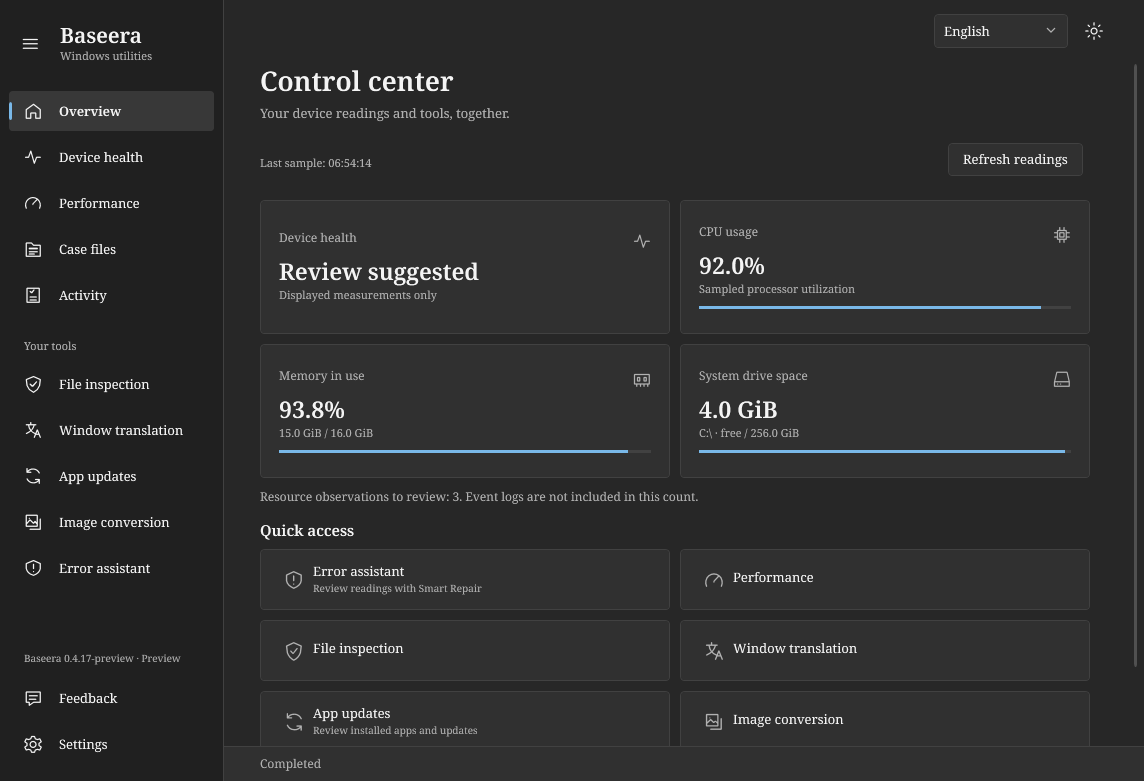
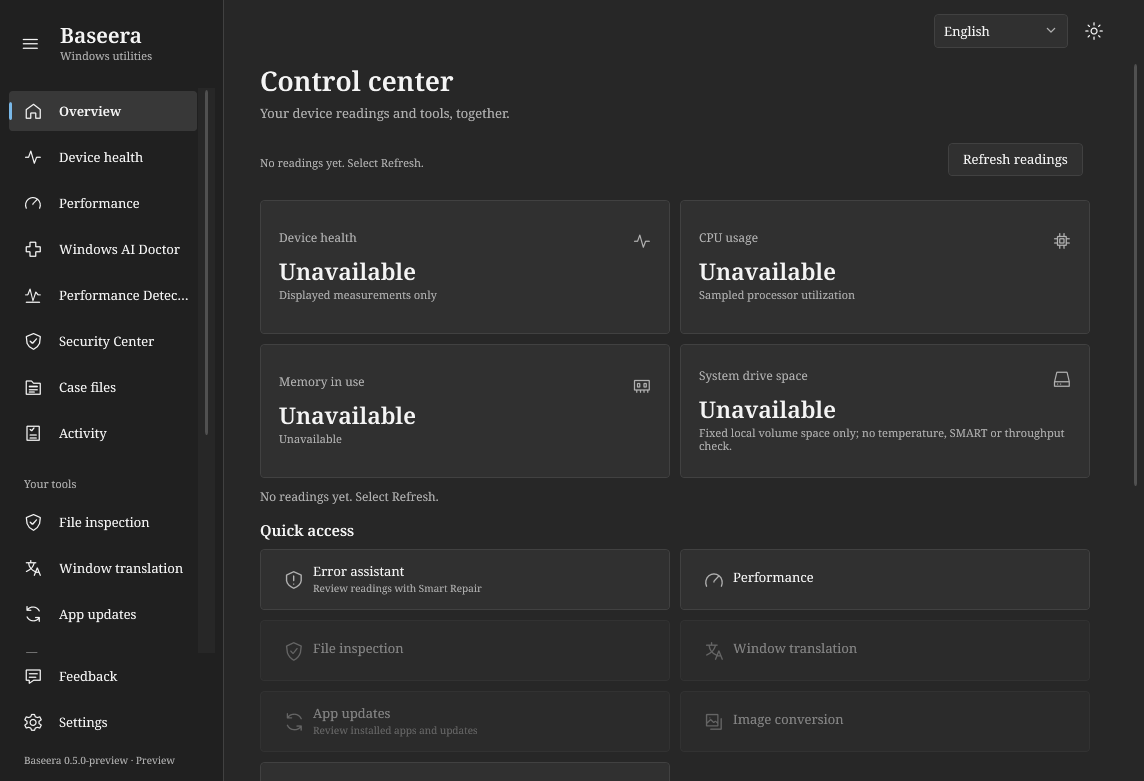
Open Smart Repair on demand and organize sidebar groups

diff --git a/src/Baseera.App/ShellSmokeChecks.cs b/src/Baseera.App/ShellSmokeChecks.cs
@@ -1,0 +1,69 @@
+using System.Text.Json;
+using System.Windows.Automation;
+using Baseera.App.Services;
+
+namespace Baseera.App;
+
+internal static class ShellSmokeChecks
+{
+    private static IEnumerable<DependencyObject> Nodes(DependencyObject root)
+    { for (int i = 0; i < VisualTreeHelper.GetChildrenCount(root); i++) { var child = VisualTreeHelper.GetChild(root, i); yield return child; foreach (var next in Nodes(child)) yield return next; } }
+    private static T Find<T>(DependencyObject root, string id) where T : DependencyObject => Nodes(root).OfType<T>().Single(n => AutomationProperties.GetAutomationId(n) == id);
+    private static void Require(bool condition, string message) { if (!condition) throw new InvalidOperationException(message); }
+    private static async Task Settle(Window owner) { await owner.Dispatcher.InvokeAsync(() => { }, System.Windows.Threading.DispatcherPriority.ApplicationIdle); await Task.Delay(220); owner.UpdateLayout(); }
+    private static void CheckNavigation(MainWindow owner)
+    {
+        string[] Ids(string group) => Nodes(Find<StackPanel>(owner, group)).OfType<Button>().Select(b => AutomationProperties.GetAutomationId(b).Replace("Navigate-", "")).ToArray();
+        Require(Ids("SidebarPrimary").SequenceEqual(new[] { "home", "health", "performance", "doctor", "detective", "security", "cases", "activity" }), "Primary health/diagnostic navigation order is incorrect.");
+        Require(Ids("SidebarTools").SequenceEqual(new[] { "scan", "translate", "updates", "convert", "errors", "search" }), "Universal Search is not in Your tools.");
+        Require(Ids("SidebarCenters").SequenceEqual(new[] { "network", "storage", "timeline", "usb" }), "Moved pages remain duplicated in exploration navigation.");
+        var buttons = Nodes(owner).OfType<Button>().Select(AutomationProperties.GetAutomationId).Where(id => id.StartsWith("Navigate-")).ToArray();
+        Require(buttons.Length == 20 && buttons.Distinct().Count() == buttons.Length, "A navigation destination is missing or duplicated.");
+        var footer = Find<StackPanel>(owner, "SidebarFooter"); var version = Find<TextBlock>(footer, "SidebarVersion");
+        Require(ReferenceEquals(footer.Children[^1], version) && footer.Children.OfType<Button>().Select(AutomationProperties.GetAutomationId).SequenceEqual(new[] { "Navigate-feedback", "Navigate-settings" }), "Version is not the last footer item below Settings.");
+        var settings = Find<Button>(footer, "Navigate-settings");
+        Require(version.TranslatePoint(new System.Windows.Point(), owner).Y >= settings.TranslatePoint(new System.Windows.Point(), owner).Y + settings.ActualHeight && version.IsVisible,
+            "Version overlaps Settings instead of appearing below it.");
+    }
+    internal static async Task Run(MainWindow originalOwner, string output)
+    {
+        string preferences = JsonSerializer.Serialize(Settings.Current), key = Settings.GetKey("gemini"); MainWindow? owner = null;
+        try
+        {
+            Settings.Current.Onboarded = Settings.Current.WelcomeSeen = true;
+            Settings.Current.ShowWelcomeOnStartup = Settings.Current.AutoRefreshDevice = Settings.Current.CheckBaseeraUpdates = Settings.Current.UpdatesEnabled = Settings.Current.ScanAtStartup = Settings.Current.ExplorerMenu = false;
+            Settings.Current.ErrorAssistantEnabled = true; Settings.Current.AiProvider = "gemini";
+            // Use the normal Loaded path, with all external/background actions disabled.
+            foreach (bool configured in new[] { false, true })
+            {
+                Settings.Current.GeminiModel = configured ? "gemini-fixture" : ""; Settings.SetKey("gemini", configured ? "fixture-not-live" : "");
+                owner = new MainWindow(); owner.Show(); await Settle(owner);
+                Require(owner.CurrentErrorAssistant is null && Nodes(owner).Any(n => AutomationProperties.GetAutomationId(n) == "DeviceMetrics"),
+                    "A normal launch opened the assistant or redirected Overview to AI Settings.");
+                if (!configured) { owner.Close(); owner = null; }
+            }
+            foreach (string language in new[] { "en", "ar", "fr", "es" })
+            foreach (bool dark in new[] { false, true })
+            {
+                Settings.Current.Language = language; Settings.Current.Dark = dark; owner!.ApplyTheme(); owner.Navigate("home"); await Settle(owner); CheckNavigation(owner);
+                App.Snapshot(owner, Path.Combine(output, "shell-home-" + language + (dark ? "-dark" : "") + ".png"));
+            }
+            owner!.Height = owner.MinHeight; owner.Navigate("home"); await Settle(owner); CheckNavigation(owner);
+            var menu = Nodes(owner).OfType<Button>().Single(b => AutomationProperties.GetName(b) == I18n.T("menu")); menu.RaiseEvent(new RoutedEventArgs(Button.ClickEvent)); await Settle(owner);
+            Require(!Nodes(owner).Any(n => AutomationProperties.GetAutomationId(n) == "SidebarVersion"), "Collapsed navigation retained overflowing version text.");
+            menu = Nodes(owner).OfType<Button>().Single(b => AutomationProperties.GetName(b) == I18n.T("menu")); menu.RaiseEvent(new RoutedEventArgs(Button.ClickEvent)); await Settle(owner); CheckNavigation(owner);
+            owner.Navigate("settings"); await Settle(owner);
+            var search = Nodes(owner).OfType<CheckBox>().Single(c => AutomationProperties.GetName(c) == I18n.T("search")); search.IsChecked = false;
+            Require(Settings.Current.DisabledCenters.Contains("search"), "Search tool toggle did not disable search."); search.IsChecked = true;
+            Require(!Settings.Current.DisabledCenters.Contains("search"), "Search tool toggle did not enable search.");
+            owner.ShowErrorAssistant(); await Settle(owner);
+            Require(owner.CurrentErrorAssistant?.IsVisible == true, "Explicit manual assistant launch stopped working.");
+            File.WriteAllText(Path.Combine(output, "shell-result.txt"), "PASS: normal launch with/without AI setup stays on Overview without opening an assistant; explicit manual open works; primary diagnostic grouping, Search in Your tools, no duplicate destinations, version last below Settings in four languages/both themes/minimum height; collapsed menu and Search enable/disable. No API, OS integration, native repair or background update ran.");
+        }
+        finally
+        {
+            owner?.CurrentErrorAssistant?.Close(); owner?.Close(); Settings.SetKey("gemini", key);
+            await File.WriteAllTextAsync(Path.Combine(Settings.Folder, "settings.json"), preferences); Settings.Load(); originalOwner.ApplyTheme(); originalOwner.Navigate("home");
+        }
+    }
+}

diff --git a/src/Baseera.App/MainWindow.Layout.cs b/src/Baseera.App/MainWindow.Layout.cs
@@ -21,7 +21,8 @@ public sealed partial class MainWindow
     private string feedbackTitleDraft = "", feedbackBodyDraft = "";
     private int feedbackKindDraft;
     private bool Arabic => Settings.Current.Language == "ar";
-    private static readonly string[] Tools = ["scan", "translate", "updates", "convert", "errors"];
+    private static readonly string[] Tools = ["scan", "translate", "updates", "convert", "errors", "search"];
+    private static readonly string[] PrimaryPages = ["home", "health", "performance", "doctor", "detective", "security", "cases", "activity"];
     private static Brush Resource(string key) => (Brush)Application.Current.FindResource(key);
     private static StackPanel Stack() => new() { Orientation = Orientation.Vertical };
     private FontWeight HeadingWeight => Arabic ? FontWeights.Medium : FontWeights.SemiBold;
@@ -195,17 +196,20 @@ public sealed partial class MainWindow
             var label = Text(I18n.T("windowsTools"), 11, true); label.Margin = new Thickness(0); wordmark.Children.Add(label); Grid.SetColumn(wordmark, 1); header.Children.Add(wordmark);
         }
         DockPanel.SetDock(header, Dock.Top); navigation.Children.Add(header);
-        var bottom = Stack();
-        if (expanded) { var version = Text("Baseera " + SelfUpdater.CurrentVersion + " · " + I18n.T("preview"), 10, true); version.Margin = new Thickness(16, 0, 0, 10); bottom.Children.Add(version); }
+        var bottom = Stack(); DeviceId(bottom, "SidebarFooter");
         bottom.Children.Add(NavigationButton("feedback"));
         bottom.Children.Add(NavigationButton("settings"));
+        if (expanded) { var version = Text("Baseera " + SelfUpdater.CurrentVersion + " · " + I18n.T("preview"), 10, true); version.Margin = new Thickness(16, 10, 0, 0); DeviceId(version, "SidebarVersion"); bottom.Children.Add(version); }
         DockPanel.SetDock(bottom, Dock.Bottom); navigation.Children.Add(bottom);
-        var links = Stack(); links.Children.Add(NavigationButton("home")); links.Children.Add(NavigationButton("health")); links.Children.Add(NavigationButton("performance")); links.Children.Add(NavigationButton("cases")); links.Children.Add(NavigationButton("activity"));
+        var links = Stack(); var primary = Stack(); DeviceId(primary, "SidebarPrimary");
+        foreach (string destination in PrimaryPages) primary.Children.Add(NavigationButton(destination)); links.Children.Add(primary);
         if (expanded) { var label = Text(I18n.T("yourTools"), 11, true); label.Margin = new Thickness(16, 22, 0, 8); links.Children.Add(label); }
         else links.Children.Add(new Border { Height = 18 });
-        foreach (string tool in Tools) links.Children.Add(NavigationButton(tool));
+        var toolLinks = Stack(); DeviceId(toolLinks, "SidebarTools");
+        foreach (string tool in Tools) toolLinks.Children.Add(NavigationButton(tool)); links.Children.Add(toolLinks);
         if (expanded) { var label = Text(I18n.T("hubCenters"), 11, true); label.Margin = new Thickness(16, 22, 0, 8); links.Children.Add(label); }
-        foreach (string center in InvestigationCenters) links.Children.Add(NavigationButton(center));
+        var centerLinks = Stack(); DeviceId(centerLinks, "SidebarCenters");
+        foreach (string center in InvestigationCenters.Except(PrimaryPages).Except(Tools)) centerLinks.Children.Add(NavigationButton(center)); links.Children.Add(centerLinks);
         var linksScroller = new ScrollViewer { Content = links, VerticalScrollBarVisibility = ScrollBarVisibility.Auto, HorizontalScrollBarVisibility = ScrollBarVisibility.Disabled };
         navigation.Children.Add(linksScroller);
         sidebar.BeginAnimation(WidthProperty, null); sidebar.Width = expanded ? 224 : 68; sidebar.Background = Resource("Sidebar"); sidebar.ClipToBounds = true; sidebar.Child = navigation;
@@ -242,7 +246,8 @@ public sealed partial class MainWindow
             _ = Dispatcher.InvokeAsync(() =>
             {
                 if (!activeNavigation.IsLoaded) return;
-                if (InvestigationCenters.Contains(page))
+                if (PrimaryPages.Contains(page)) linksScroller.ScrollToHome();
+                else if (InvestigationCenters.Contains(page))
                 {
                     linksScroller.UpdateLayout();
                     double top = activeNavigation.TranslatePoint(new System.Windows.Point(), linksScroller).Y + linksScroller.VerticalOffset;
@@ -294,6 +299,12 @@ public sealed partial class MainWindow
     private bool IsEnabledFeature(string key) => InvestigationCenters.Contains(key) ? !Settings.Current.DisabledCenters.Contains(key) : key switch { "scan" => Settings.Current.ScanEnabled, "translate" => Settings.Current.TranslationEnabled, "updates" => Settings.Current.UpdatesEnabled, "convert" => Settings.Current.ConvertEnabled, "errors" => Settings.Current.ErrorAssistantEnabled, _ => true };
     private void SetFeature(string key, bool value)
     {
+        if (InvestigationCenters.Contains(key))
+        {
+            Settings.Current.DisabledCenters.RemoveAll(x => x == key);
+            if (!value) { Settings.Current.DisabledCenters.Add(key); operation?.Cancel(); }
+            Settings.Save(); return;
+        }
         switch (key)
         {
             case "scan": Settings.Current.ScanEnabled = value; break;
@@ -407,7 +418,7 @@ public sealed partial class MainWindow
         var welcome = Action("welcomeReopen", ShowWelcome); welcome.Margin = new Thickness(0); appearance.Children.Add(SettingRow("welcomeGuide", welcome)); body.Children.Add(Card(appearance));
         SectionHeading(body, "yourTools"); FeatureChoices(body);
         SectionHeading(body, "hubCenters"); var centers = Stack();
-        foreach (string center in InvestigationCenters) centers.Children.Add(Toggle(center, IsEnabledFeature(center), enabled => { Settings.Current.DisabledCenters.RemoveAll(x => x == center); if (!enabled) Settings.Current.DisabledCenters.Add(center); Settings.Save(); }));
+        foreach (string center in InvestigationCenters.Except(Tools)) centers.Children.Add(Toggle(center, IsEnabledFeature(center), enabled => SetFeature(center, enabled)));
         centers.Children.Add(Text(I18n.T("hubLocalFirst"), 12, true)); body.Children.Add(Card(centers));
         var monitoring = Stack(); monitoring.Children.Add(Toggle("deviceAutoRefresh", Settings.Current.AutoRefreshDevice, value => { Settings.Current.AutoRefreshDevice = value; Settings.Save(); })); monitoring.Children.Add(Text(I18n.T("deviceLocalOnly"), 12, true)); body.Children.Add(Card(monitoring));
         SectionHeading(body, "windowsIntegration"); var windows = Stack();

diff --git a/src/Baseera.App/App.xaml.cs b/src/Baseera.App/App.xaml.cs
@@ -24,7 +24,7 @@ public partial class App : Application
         { /* Connection settings report an unreadable credential store; startup remains available. */ }
         bool smoke = e.Args.Contains("--smoke");
         string? input = e.Args.Length > 1 && e.Args[0] == "--convert" ? e.Args[1] : null;
-        var window = new MainWindow(input, smoke, e.Args.Length == 0); MainWindow = window;
+        var window = new MainWindow(input, smoke); MainWindow = window;
         if (!smoke && e.Args.Length == 2 && e.Args[0] == "--update-result") window.UpdateReceipt = e.Args[1];
         if (smoke) window.Loaded += async (_, _) =>
         {
@@ -32,6 +32,8 @@ public partial class App : Application
             {
                 string output = e.Args.SkipWhile(x => x != "--smoke").Skip(1).FirstOrDefault() ?? "artifacts";
                 Directory.CreateDirectory(output);
+                if (e.Args.Contains("--shell-only"))
+                { await ShellSmokeChecks.Run(window, output); Shutdown(0); return; }
                 if (e.Args.Contains("--read-only-system-only"))
                 {
                     Settings.Current.Onboarded = true; window.ApplyTheme(); window.Render();
@@ -133,6 +135,7 @@ public partial class App : Application
                 await window.CheckNavigation();
                 window.CheckAiServices();
                 await WelcomeSmokeChecks.Run(window);
+                await ShellSmokeChecks.Run(window, output);
                 await SelfUpdateSmokeChecks.Run(output);
                 await window.CheckSelfUpdateControls();
                 await window.CheckStatusLocalization(output);

diff --git a/src/Baseera.App/MainWindow.DeviceCenter.cs b/src/Baseera.App/MainWindow.DeviceCenter.cs
@@ -112,10 +112,10 @@ public sealed partial class MainWindow
         SectionHeading(body, "deviceQuick"); var quick = new UniformGrid { Columns = 2, Margin = new Thickness(0, 0, -10, 4) };
         quick.Children.Add(QuickAccess("errors", ReviewDeviceWithAssistant, I18n.T("deviceAnalyze")));
         quick.Children.Add(QuickAccess("performance", () => Navigate("performance")));
-        foreach (string key in new[] { "scan", "translate", "updates", "convert" }) quick.Children.Add(QuickAccess(key, () => Navigate(key), key == "updates" ? I18n.T("deviceUpdatesOnRequest") : null));
+        foreach (string key in new[] { "scan", "translate", "updates", "convert", "search" }) quick.Children.Add(QuickAccess(key, () => Navigate(key), key == "updates" ? I18n.T("deviceUpdatesOnRequest") : null));
         body.Children.Add(quick); Help(body, "deviceLocalOnly");
         SectionHeading(body, "hubCenters"); var centers = new UniformGrid { Columns = 2, Margin = new Thickness(0, 0, -10, 4) };
-        foreach (string center in InvestigationCenters) centers.Children.Add(QuickAccess(center, () => Navigate(center), I18n.T(center + "Short"))); body.Children.Add(centers);
+        foreach (string center in InvestigationCenters.Except(Tools)) centers.Children.Add(QuickAccess(center, () => Navigate(center), I18n.T(center + "Short"))); body.Children.Add(centers);
         drawDevice = () => { DrawMetrics(metrics); observations.Text = deviceSnapshot is null ? I18n.T("deviceNoData") : string.Format(I18n.T("deviceObservations"), deviceSnapshot.Findings.Count); }; drawDevice();
     }
     private void DeviceHealthPage(StackPanel body)

diff --git a/src/Baseera.App/MainWindow.cs b/src/Baseera.App/MainWindow.cs
@@ -28,9 +28,9 @@ public sealed partial class MainWindow : Window
     private readonly bool smokeMode;
     internal ApplicationServices Services { get; }
     private readonly System.Windows.Threading.DispatcherTimer updateTimer = new() { Interval = TimeSpan.FromHours(6) };
-    public MainWindow(string? conversionFile = null, bool smoke = false, bool launchErrorAssistant = true)
-        : this(conversionFile, smoke, launchErrorAssistant, new ApplicationServices()) { }
-    internal MainWindow(string? conversionFile, bool smoke, bool launchErrorAssistant, ApplicationServices services)
+    public MainWindow(string? conversionFile = null, bool smoke = false)
+        : this(conversionFile, smoke, new ApplicationServices()) { }
+    internal MainWindow(string? conversionFile, bool smoke, ApplicationServices services)
     {
         Services = services;
         smokeMode = smoke;
@@ -66,7 +66,6 @@ public sealed partial class MainWindow : Window
                     catch (Exception ex) { SetOperationStatus("selfFailed", ex.Message); }
                 }
                 ShowStartupWelcome();
-                if (launchErrorAssistant && Settings.Current.ErrorAssistantEnabled) ShowErrorAssistant();
                 await CheckSelfUpdate();
                 if (!Settings.Current.Onboarded) return;
                 if (Settings.Current.ScanEnabled && Settings.Current.ScanAtStartup && (File.Exists(Settings.Current.ScanPath) || Directory.Exists(Settings.Current.ScanPath)))

diff --git a/src/Baseera.App/InvestigationSmokeChecks.cs b/src/Baseera.App/InvestigationSmokeChecks.cs
@@ -49,7 +49,7 @@ internal static class InvestigationSmokeChecks
         try
         {
             Settings.Current.Onboarded = true; Settings.Current.ErrorAssistantEnabled = true; Settings.Current.DisabledCenters.Clear(); Settings.Current.AiProvider = "gemini"; Settings.Current.GeminiModel = "gemini-fixture"; Settings.SetKey("gemini", "fixture-only-not-live"); Settings.SetReputationKey("fixture-only-not-live");
-            owner = new MainWindow(null, true, false); owner.Width = 1160; owner.Height = 820; owner.Show(); await Settle(owner);
+            owner = new MainWindow(null, true); owner.Width = 1160; owner.Height = 820; owner.Show(); await Settle(owner);
             var capturedAt = DateTimeOffset.UtcNow.AddSeconds(-10);
             var device = new DeviceSnapshot(capturedAt, 1, 91, new(16 * GiB, 2 * GiB), [new("C:\\", 256 * GiB, 16 * GiB, true)], [], [], false, []);
             owner.DoctorCaptureOverride = (options, token) =>

diff --git a/src/Baseera.App/WorkflowSmokeChecks.cs b/src/Baseera.App/WorkflowSmokeChecks.cs
@@ -72,7 +72,7 @@ internal static class WorkflowSmokeChecks
         try
         {
             Settings.Current.Onboarded = true;
-            owner = new MainWindow(null, true, false, services); owner.Show(); await Settle(owner);
+            owner = new MainWindow(null, true, services); owner.Show(); await Settle(owner);
             foreach (string language in new[] { "ar", "en", "fr", "es" })
             {
                 history = (await repository.List(CancellationToken.None)).Single();

diff --git a/README.md b/README.md
@@ -22,9 +22,9 @@ fixture, not a measurement from a user's device or a verified repair.*
 <summary>Arabic RTL investigation center and earlier control-center views</summary>
 
 ![Network Doctor — Arabic RTL, synthetic measurements](docs/images/investigation-network-ar-dark.png)
-![Earlier development control center — English, synthetic readings](docs/images/baseera-development-en.png)
-![Baseera development control center — English, dark appearance](docs/images/baseera-development-en-dark.png)
-![Baseera development control center — Arabic RTL, synthetic readings](docs/images/baseera-development-ar.png)
+![Current Overview and navigation — English, no readings collected](docs/images/baseera-development-en.png)
+![Current Overview and navigation — English dark appearance, no readings collected](docs/images/baseera-development-en-dark.png)
+![Current Overview and navigation — Arabic RTL, no readings collected](docs/images/baseera-development-ar.png)
 
 </details>
 
@@ -137,15 +137,16 @@ the translation service and focuses the missing key or model field.
 Settings are grouped by purpose; unsaved translation settings survive appearance changes.
 
 The error assistant can be enabled or disabled with the other tools in Settings.
-When enabled, it also opens separately before the main window on a normal launch. If
-no AI service is configured, it opens the relevant main Settings card first in the
-0.4.15 preview. Keys are protected by the local Windows account and shared with window
+In this development version, it opens only when you choose the assistant, a review
+action, or Ctrl+Shift+E. A normal launch stays on Overview. If no AI service is
+configured, your explicit assistant action opens the relevant main Settings card.
+Keys are protected by the local Windows account and shared with window
 translation. Error text and the selected image are sent to the selected service only after you
 press **Analyze error**. Review a full-window screenshot before sending: it may
 contain private information. The response gives possible causes, checks and steps,
 not a guaranteed repair. In the 0.4.15 preview, only reviewed catalog
 commands can run after separate explicit approval; generated free-form commands
-are never executed. The dialog does not open for Windows auto-start or file-conversion launches.
+are never executed.
 
 ![Error assistant with provider identity and structured guidance](docs/images/advice-complete-en.png)
 

diff --git a/docs/README.ar.md b/docs/README.ar.md
@@ -63,7 +63,7 @@
 
 ## الاستخدام
 
-**مساعد أخطاء ويندوز:** يظهر ضمن «أدواتك» في النظرة العامة والقائمة الجانبية، وله صفحة تفتح المساعد. تظهر النافذة أيضًا عند فتح بصيرة بالطريقة المعتادة إن كانت الأداة مفعّلة. في الإصدار 0.4.15، إن لم تحفظ اتصال الخدمة، تُفتح إعدادات بصيرة لإدخال المفتاح أو تسجيل الدخول واختيار نموذج يدعم النص والصورة؛ لا توجد استمارة إعدادات داخل المحادثة.
+**مساعد أخطاء ويندوز:** يظهر ضمن «أدواتك» في النظرة العامة والقائمة الجانبية، وله صفحة تفتح المساعد عند اختيارك. في نسخة التطوير الحالية، يبقى التشغيل العادي على النظرة العامة؛ لا يُفتح المساعد تلقائيًا. عند طلب فتحه دون اتصال محفوظ، تُفتح إعدادات بصيرة لإدخال المفتاح أو تسجيل الدخول واختيار نموذج يدعم النص والصورة؛ لا توجد استمارة إعدادات داخل المحادثة.
 الصق صورة مباشرة أو انسخ ملف صورة محفوظًا، أو اختر صورة من الملفات أو التقط نافذة مفتوحة؛ تظهر المعاينة فورًا. يمكنك أيضًا لصق رسالة الخطأ، ثم الضغط على «تحليل الخطأ». يُرسل النص والصورة المختارة مباشرة إلى الخدمة المحددة عند ضغط الزر فقط. راجع لقطة النافذة قبل الإرسال لأنها قد تحتوي بيانات خاصة.
 النتيجة تفسير وخطوات مقترحة للمراجعة، وليست إصلاحًا مضمونًا أو تغييرًا تلقائيًا
 لإعدادات ويندوز. افتح المساعد مجددًا باختصار Ctrl+Shift+E من داخل بصيرة.

diff --git a/docs/README.fr.md b/docs/README.fr.md
@@ -16,7 +16,7 @@ Activez uniquement les outils voulus lors du premier lancement. Pour la traducti
 choisissez parmi 20 services directs, dont Gemini, OpenAI (modèles ChatGPT), Claude et Grok. Ajoutez la clé propre au service, puis chargez les modèles avec vision. OpenRouter est supprimé ; le plantage lors du changement de service est corrigé. L’accès et le prix dépendent du compte. [Services et vérification](AI-SERVICES.md). La capture est envoyée sur demande. Échap ferme la couche.
 L’extension dans `extension/` traduit le texte de la page en place et restaure l’original.
 
-L’assistant d’erreurs figure dans « Vos outils », sur l’accueil et dans la barre latérale. Sa page ouvre la fenêtre d’analyse ; lorsqu’il est activé, elle s’ouvre aussi au démarrage normal. Vous pouvez désactiver cet outil dans les paramètres. Collez
+L’assistant d’erreurs figure dans « Vos outils », sur l’accueil et dans la barre latérale. Dans cette version de développement, il s’ouvre à votre demande depuis sa page, une action de revue ou Ctrl+Shift+E. Le lancement normal reste sur l’aperçu. Vous pouvez désactiver cet outil dans les paramètres. Collez
 un message ou une image, collez un fichier image copié, choisissez un fichier ou capturez une fenêtre ouverte ; l’aperçu apparaît aussitôt. Demandez ensuite une analyse avec la clé choisie. Vous pouvez fermer l’assistant sans
 configurer de clé et le rouvrir avec Ctrl+Shift+E depuis Baseera. Le texte et l’image
 choisis sont envoyés au service choisi seulement après votre clic directement. Vérifiez la capture avant

diff --git a/docs/QA-REVIEW.md b/docs/QA-REVIEW.md
@@ -36,6 +36,13 @@
 
 ## التغطية
 
+أُضيف تحقق لاحق للتشغيل والقائمة: يبقى التشغيل العادي على النظرة العامة سواء
+كان اتصال AI محفوظًا أم لا، مع استمرار فتح المساعد يدويًا. نُقلت معلومات
+الإصدار إلى آخر القائمة تحت الإعدادات، وجُمعت أدوات الطبيب/البطء/الأمان مع
+صحة الجهاز والأداء، ونُقل البحث إلى «أدواتك» دون تكرار. نجح اختبار التشغيل
+الفعلي المعزول، واللغات الأربع والوضعين وأقل ارتفاع للنافذة، وتفعيل البحث
+وتعطيله؛ ثم أُعيدت اختبارات المراكز الثمانية على الحزمة.
+
 | الميزة | ما تغطيه المراجعة | ما يحتاج تحققًا مستقلًا |
 | --- | --- | --- |
 | البداية، القوائم والإعدادات | أول تشغيل، حفظ الخيارات، اللغات الأربع، RTL، الوضعان، الإطار والتكبير والتصغير، التنقل بلوحة المفاتيح والتباين العالي | تدقيق Narrator كامل وتنوع الشاشات والأجهزة |

diff --git a/docs/README.es.md b/docs/README.es.md
@@ -16,7 +16,7 @@ Activa solo las herramientas que necesitas. Elige entre 20 servicios directos, c
 cuando lo solicitas. Esc cierra la capa de traducción. La extensión en `extension/`
 reemplaza el texto de la página y permite restaurar el original.
 
-El asistente de errores aparece en «Tus herramientas» de la página principal y la barra lateral. Su página abre la ventana de análisis; si está activado, también se abre al iniciar Baseera normalmente. Puedes desactivarlo en Configuración.
+El asistente de errores aparece en «Tus herramientas» de la página principal y la barra lateral. En esta versión de desarrollo se abre cuando lo eliges desde su página, una acción de revisión o Ctrl+Shift+E. El inicio normal permanece en la vista general. Puedes desactivarlo en Configuración.
 Pega el mensaje o una imagen, copia un archivo de imagen, elige un archivo o captura una ventana abierta; la vista previa aparece enseguida. Solicita un análisis con la clave elegida. Puedes cerrar la ventana sin configurar
 una clave y volver a abrirla con Ctrl+Shift+E desde Baseera. El texto y la imagen
 elegidos se envían al servicio elegido solo al pulsar Analizar directamente. Revisa la captura antes de
